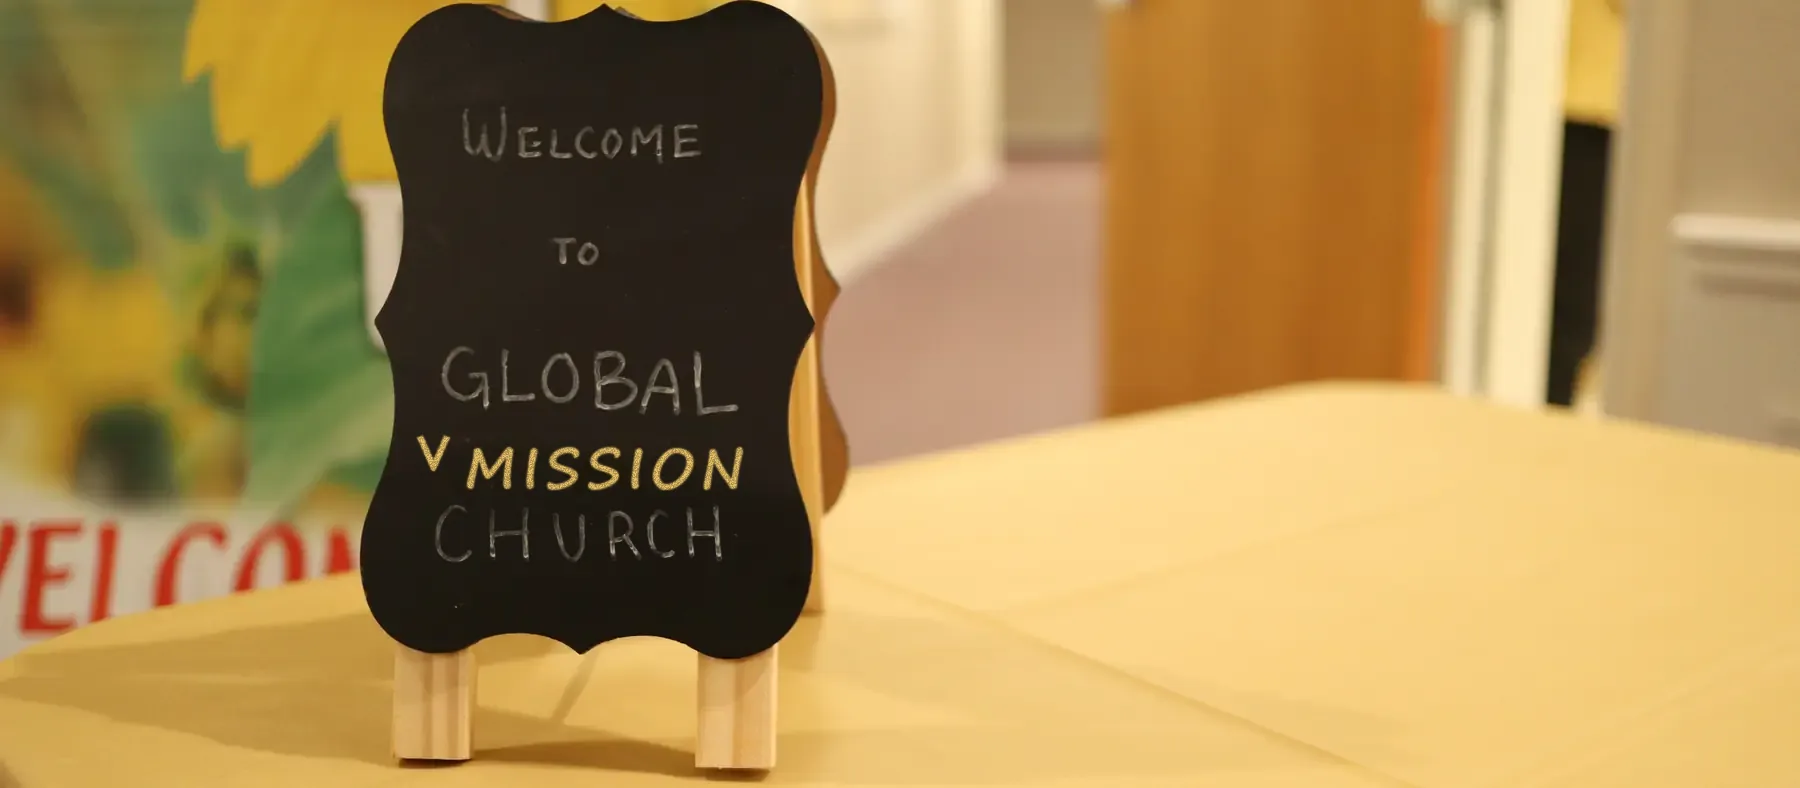
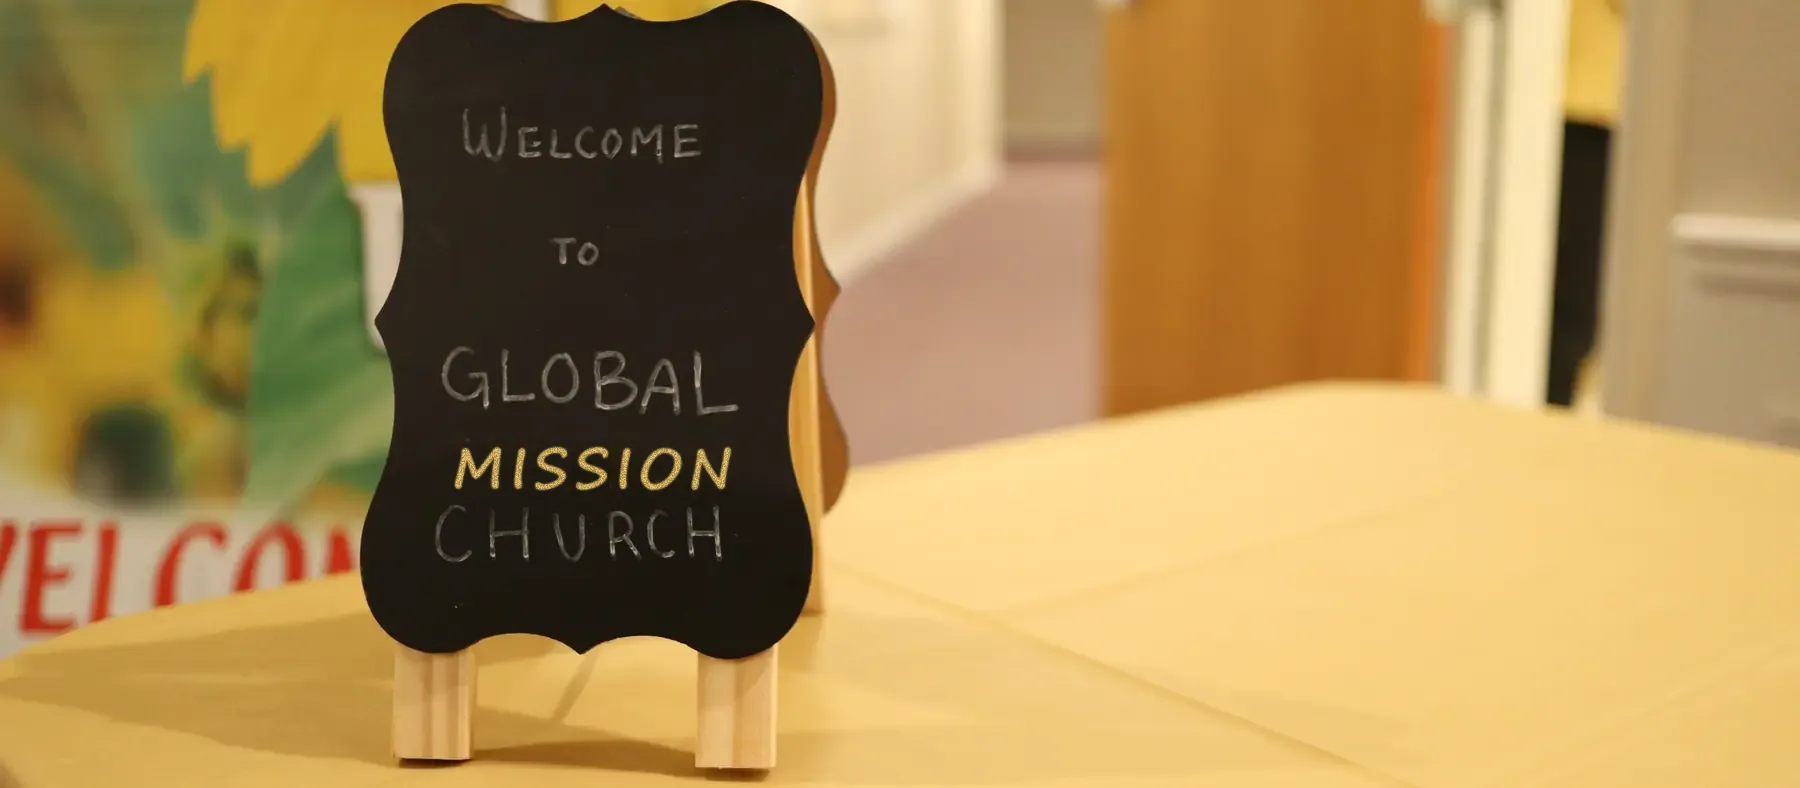
공동체 첫 사진: V 표시 빼고 금색 MISSION 만

Changed region(s): [[0.2178, 0.5482, 0.4356, 0.6396]]

diff --git a/index.html b/index.html
@@ -1267,7 +1267,7 @@ img.onload=function(){
     
     <h2 class="sec-title"><span class="ko">함께 나누고, 이웃을 품는 마당</span><span class="en">Where we share and welcome neighbors</span></h2>
     <p class="sec-lead"><span class="ko">교회 소식과 이야기, 그리고 지역 이웃을 향한 사랑이 흐르는 열린 마당입니다.</span><span class="en">Church news and stories, and love flowing out to our neighbors.</span></p>
- <figure class="phw" data-th="p-square"><img src="/images/nature/square-welcome-mission.webp" width="1800" height="788" loading="lazy" decoding="async" style="object-position:50% 50%" alt="교회 친교 탁자 위 &quot;WELCOME TO GLOBAL MISSION CHURCH&quot; 손글씨 칠판과 환영 현수막 — MISSION은 금색으로 덧쓴 글씨"></figure>
+ <figure class="phw" data-th="p-square"><img src="/images/nature/square-welcome-mission.webp?v=2" width="1800" height="788" loading="lazy" decoding="async" style="object-position:50% 50%" alt="교회 친교 탁자 위 &quot;WELCOME TO GLOBAL MISSION CHURCH&quot; 손글씨 칠판과 환영 현수막 — MISSION은 금색으로 덧쓴 글씨"></figure>
 
 <div class="cut"><span><span class="ko">소식과 나눔</span><span class="en">News &amp; sharing</span></span></div>
     <div class="mem"><div class="mem-row sq3"><a class="mbtn" href="/square/news/"><span class="mi "><svg viewBox="0 0 24 24"><path d="M4 5.5A2.5 2.5 0 016.5 3H20v15H6.5A2.5 2.5 0 004 20.5z"/><path d="M8 7h8M8 10.5h8M8 14h5"/></svg></span><span class="mb"><span class="mt"><span class="ko">교회 소식</span><span class="en">Church news</span></span><span class="ms"><span class="ko">주보 · 교회 일정</span><span class="en">Bulletin · calendar</span></span></span><span class="mg"><svg viewBox="0 0 24 24"><path d="M9 5l7 7-7 7"/></svg></span></a><a class="mbtn" href="/corner/"><span class="mi g"><svg viewBox="0 0 24 24"><path d="M12 20h9"/><path d="M16.5 3.5a2.1 2.1 0 013 3L7 19l-4 1 1-4z"/></svg></span><span class="mb"><span class="mt"><span class="ko">목회칼럼</span><span class="en">Pastor's column</span></span><span class="ms"><span class="ko">매주 담임목사 칼럼</span><span class="en">Weekly from our pastor</span></span></span><span class="mg"><svg viewBox="0 0 24 24"><path d="M9 5l7 7-7 7"/></svg></span></a><a class="mbtn" href="/square/board/"><span class="mi b"><svg viewBox="0 0 24 24"><path d="M21 15a2 2 0 0 1-2 2H7l-4 4V5a2 2 0 0 1 2-2h14a2 2 0 0 1 2 2z"/></svg></span><span class="mb"><span class="mt"><span class="ko">나눔터</span><span class="en">Sharing board</span></span><span class="ms"><span class="ko">간증 · 감사와 칭찬</span><span class="en">Testimony · thanks &amp; praise</span></span></span><span class="mg"><svg viewBox="0 0 24 24"><path d="M9 5l7 7-7 7"/></svg></span></a></div></div>

diff --git a/sw.js b/sw.js
@@ -7,7 +7,7 @@
    페이지는 network-first라 내용 수정 때 버전을 올릴 필요 없음.
    캐시 구조를 바꿀 때만 VERSION을 올리세요. (캐시 이름은 'home-' 으로 시작)
    ══════════════════════════════════════════════════════════ */
-const VERSION = 'home-v20261012-063618';
+const VERSION = 'home-v20261012-063823';
 const PAGE_CACHE = VERSION + '-pages';
 const ASSET_CACHE = VERSION + '-assets';
 const PRECACHE = ['/', '/manifest.json', '/favicon.ico', '/images/logo-mark.png', '/images/icon-192-em.png'];
